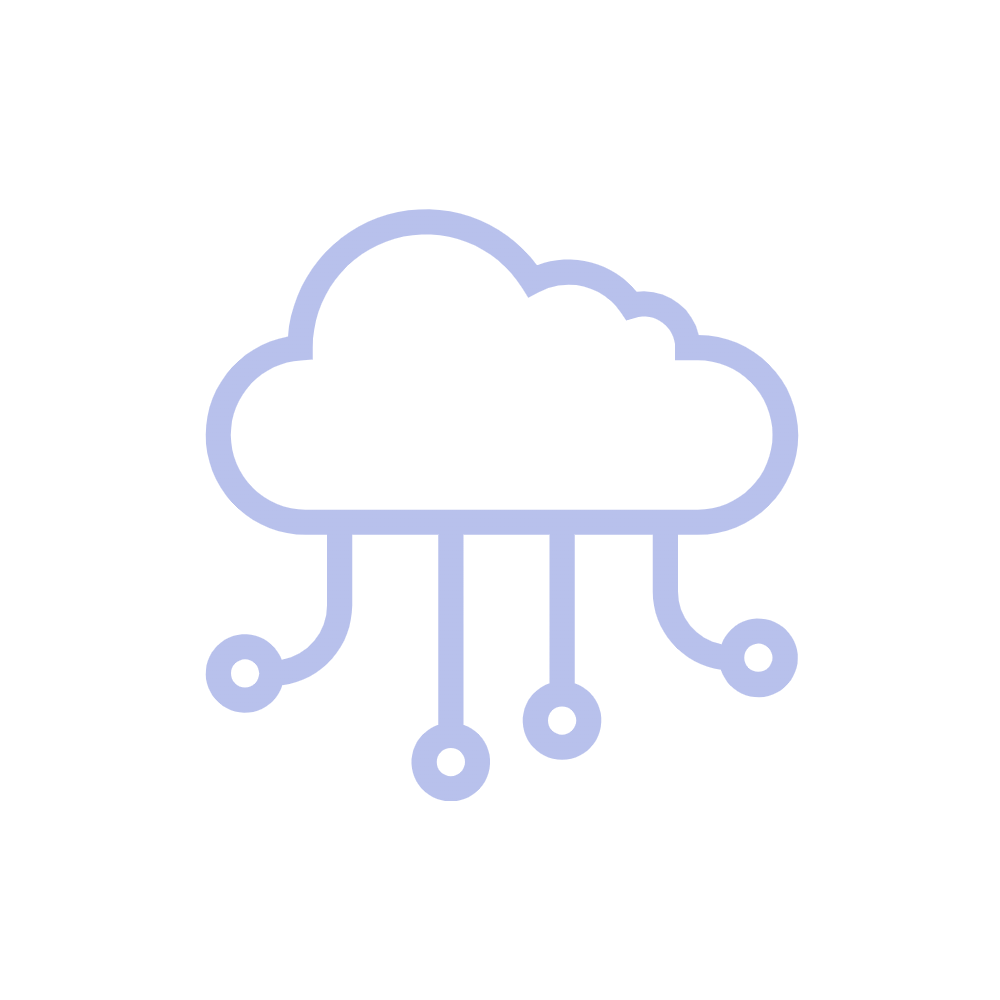
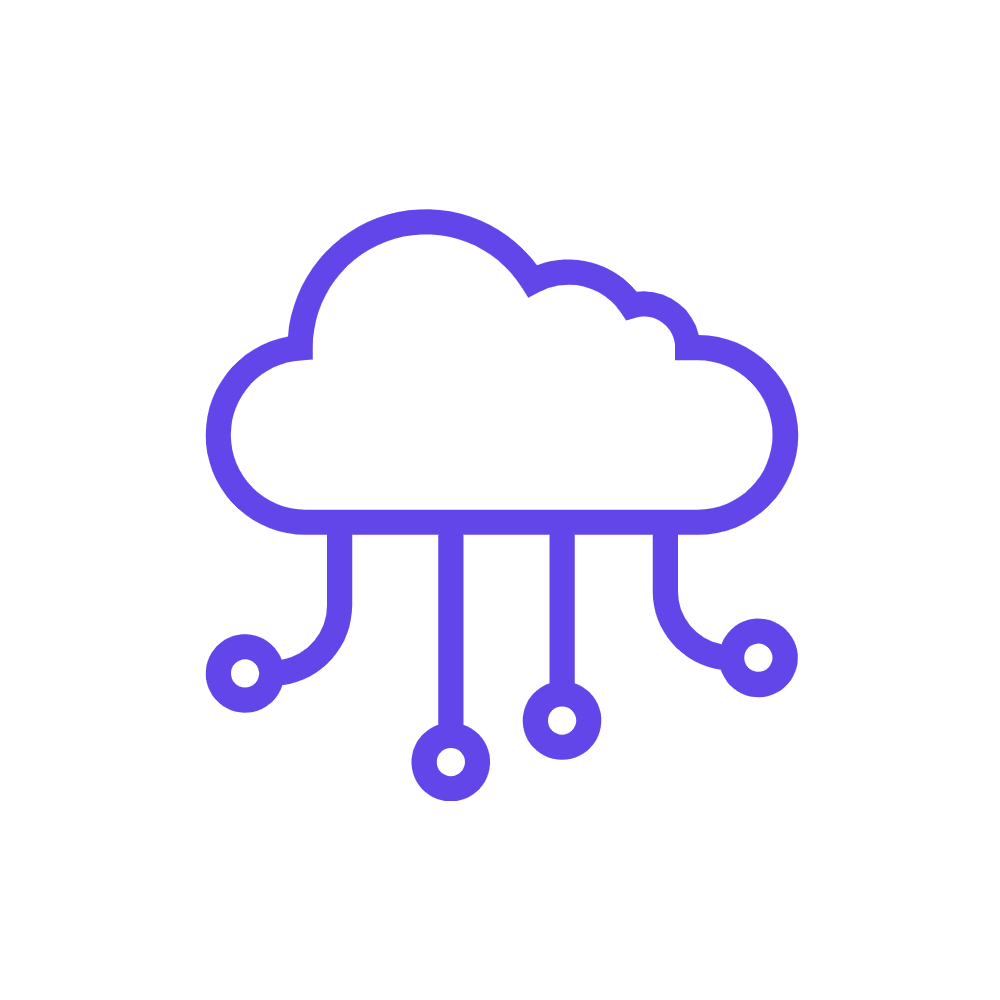
se hizo el header

Changed region(s): [[0.186, 0.186, 0.806, 0.806]]

diff --git a/index.html b/index.html
@@ -1,0 +1,39 @@
+<!DOCTYPE html>
+<html lang="en">
+<head>
+    <meta charset="UTF-8">
+    <meta http-equiv="X-UA-Compatible" content="IE=edge">
+    <meta name="viewport" content="width=device-width, initial-scale=1.0">
+    <link rel="stylesheet" href="./assets/styles.css">
+    <link rel="preconnect" 
+    href="https://fonts.googleapis.com">
+    <link rel="preconnect" 
+    href="https://fonts.gstatic.com" 
+    crossorigin>
+    <link href="https://fonts.googleapis.com/css2?family=Manrope:wght@200;400;600;800&display=swap" 
+    rel="stylesheet">
+    <title>Scloud</title>
+</head>
+<body>
+    <section id="header">
+        <div class="header">
+            <img src="./assets/Header/logo.png" alt="logo">
+            <div class="nav">
+                <ul class="nav-list">
+                    <li>Home</li>
+                    <li>Descargar</li>
+                    <li>Acerca de Nosotros</li>
+                    <li>Categorias</li>
+                    <li>Contactanos</li>
+                </ul>
+            </div>
+        </div>
+    </section>
+
+    <section id="hero">
+        <div class="hero">
+
+        </div>
+    </section>
+</body>
+</html>

diff --git a/assets/styles.css b/assets/styles.css
@@ -1,0 +1,45 @@
+* {
+    padding: 0;
+    margin: 0;
+    box-sizing: border-box;
+}
+
+:root {
+    --white: #FFFFFE;
+    --purple: #6246ea;
+    --secondary: #B8C1EC;
+    --black: #2b2c34;
+}
+
+@import url('https://fonts.googleapis.com/css2?family=Manrope:wght@200;400;600;800&display=swap');
+
+/*Header*/
+
+#header {
+    background-color: var(--white);
+}
+
+.header {
+    width: 100%;
+    height: 70px;
+    display: flex;
+    justify-content: space-between;
+    align-items: center;
+}
+
+.header img {
+    height: 70px;
+}
+
+.nav {
+    margin-right: 60px;
+}
+
+.nav ul {
+    display: flex;
+    font-family: 'Manrope', sans-serif;
+    font-weight: 600;
+    list-style-type: none;
+    color: var(--purple);
+    gap: 20px;
+}
